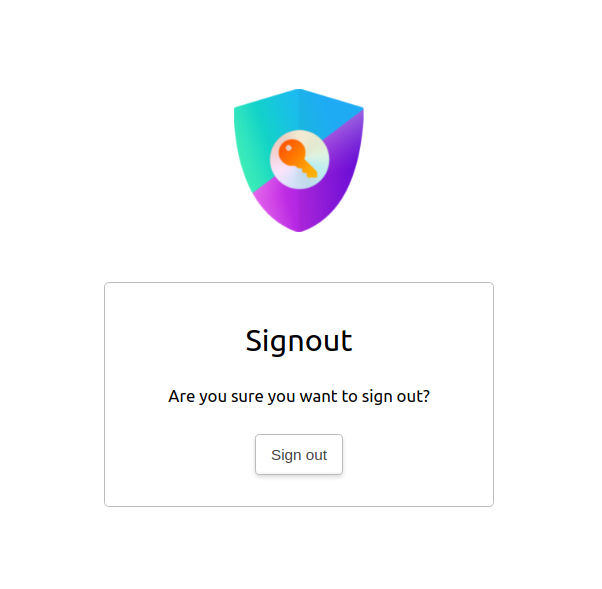
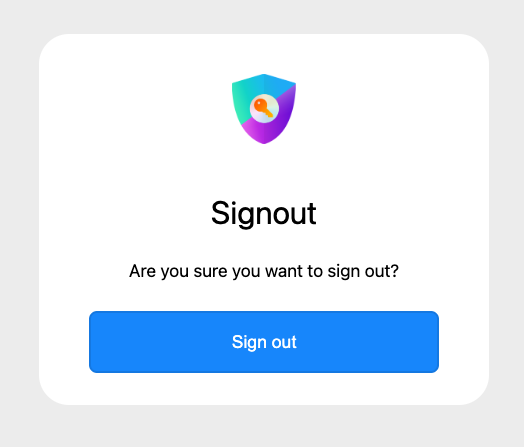
feat(core): Redesigned all default pages (#5825)
* feat(pages): Redesigned all default pages according to sketches discussed.

* chore(signin): Remove console.log

* fix(css): Makes cards scale down to 320px and have a fixed width on larger screens

* fix(styling): Adds margins on bottom and top of card.

* chore(docs): Change the documentation according to changes. Uploaded new images that reflect the new pages.

* fix(next-auth/core): Fixes correct styling of provider button across browsers.

* chore(docs): Add doc string to beta docs aswell

* feat: move changes to core

* revert change in next-auth

revert signin

Changed region(s): [[0.1527, 0.4944, 0.855, 0.8434], [0.3664, 0.1454, 0.6107, 0.4072], [0.3969, 0.4362, 0.6107, 0.5235]]

diff --git a/packages/core/src/lib/pages/styles.css b/packages/core/src/lib/pages/styles.css
@@ -8,7 +8,8 @@
 
 .__next-auth-theme-auto,
 .__next-auth-theme-light {
-  --color-background: #fff;
+  --color-background: #ececec;
+  --color-background-card: #fff;
   --color-text: #000;
   --color-primary: #444;
   --color-control-border: #bbb;
@@ -18,7 +19,8 @@
 }
 
 .__next-auth-theme-dark {
-  --color-background: #000;
+  --color-background: #161b22;
+  --color-background-card: #0d1117;
   --color-text: #fff;
   --color-primary: #ccc;
   --color-control-border: #555;
@@ -29,7 +31,8 @@
 
 @media (prefers-color-scheme: dark) {
   .__next-auth-theme-auto {
-    --color-background: #000;
+    --color-background: #161b22;
+    --color-background-card: #0d1117;
     --color-text: #fff;
     --color-primary: #ccc;
     --color-control-border: #555;
@@ -78,10 +81,9 @@ input[type] {
   width: 100%;
   padding: 0.5rem 1rem;
   border: var(--border-width) solid var(--color-control-border);
-  background: var(--color-background);
+  background: var(--color-background-card);
   font-size: 1rem;
   border-radius: var(--border-radius);
-  box-shadow: inset 0 0.1rem 0.2rem rgba(0, 0, 0, 0.2);
   color: var(--color-text);
 
   &:focus {
@@ -107,41 +109,39 @@ a.button {
   }
 }
 
+button span {
+  flex-grow: 1;
+}
+
 button,
 a.button {
   margin: 0 0 0.75rem 0;
   padding: 0.75rem 1rem;
   color: var(--provider-color, var(--color-primary));
-  background-color: var(--provider-bg, var(--color-background));
+  background-color: var(--provider-bg, var(--color-background-card));
   font-size: 1.1rem;
   min-height: 62px;
   border-color: rgba(0, 0, 0, 0.1);
   border-radius: var(--border-radius);
   transition: all 0.1s ease-in-out;
-  box-shadow: #000 0px 0px 0px 0px, #000 0px 0px 0px 0px,
-    rgba(0, 0, 0, 0.2) 0px 10px 15px -3px, rgba(0, 0, 0, 0.1) 0px 4px 6px -4px;
   font-weight: 500;
   position: relative;
   display: flex;
   align-items: center;
   justify-content: center;
 
-  &:has(img) {
-    justify-content: unset;
-    span {
-      flex-grow: 1;
-    }
+  @media (max-width: 450px) {
+    font-size: 0.9rem;
   }
+
   &:hover {
     cursor: pointer;
   }
   &:active {
-    box-shadow: 0 0.15rem 0.3rem rgba(0, 0, 0, 0.15),
-      inset 0 0.1rem 0.2rem var(--color-background),
-      inset 0 -0.1rem 0.1rem rgba(0, 0, 0, 0.1);
     cursor: pointer;
   }
   #provider-logo {
+    width: 25px;
     display: block;
   }
   #provider-logo-dark {
@@ -149,20 +149,23 @@ a.button {
   }
 }
 
+#submitButton {
+  color: var(--button-text-color, var(--color-info-text));
+  background-color: var(--brand-color, var(--color-info));
+  width: 100%;
+}
+
 @media (prefers-color-scheme: dark) {
   button,
   a.button {
     color: var(--provider-dark-color, var(--color-primary));
     background-color: var(--provider-dark-bg, var(--color-background));
-    border: 1px solid #0d0d0d;
-    box-shadow: #000 0px 0px 0px 0px, #ccc 0px 0px 0px 0px,
-      rgba(255, 255, 255, 0.01) 0px 5px 5px -3px,
-      rgba(255, 255, 255, 0.05) 0px 4px 6px -4px;
   }
   #provider-logo {
     display: none !important;
   }
   #provider-logo-dark {
+    width: 25px;
     display: block !important;
   }
 }
@@ -189,7 +192,6 @@ a.site {
 
   > div {
     text-align: center;
-    padding: 0.5rem;
   }
 }
 
@@ -217,16 +219,16 @@ a.site {
     display: block;
     border: 0;
     border-top: 1px solid var(--color-seperator);
-    margin: 1.5em auto 0 auto;
+    margin: 2rem auto 1rem auto;
     overflow: visible;
 
     &::before {
       content: "or";
-      background: var(--color-background);
+      background: var(--color-background-card);
       color: #888;
       padding: 0 0.4rem;
       position: relative;
-      top: -0.6rem;
+      top: -0.7rem;
     }
   }
 
@@ -234,7 +236,7 @@ a.site {
     background: #f5f5f5;
     font-weight: 500;
     border-radius: 0.3rem;
-    background: var(--color-info);
+    background: var(--color-error);
 
     p {
       text-align: left;
@@ -260,25 +262,26 @@ a.site {
     max-width: 300px;
   }
 }
-.signout {
-  .message {
-    margin-bottom: 1.5rem;
-  }
-}
 
 .logo {
   display: inline-block;
-  margin-top: 100px;
-  max-width: 300px;
-  max-height: 150px;
+  max-width: 150px;
+  margin-top: 20px;
+  margin-bottom: 25px;
+  max-height: 70px;
 }
 
 .card {
-  max-width: max-content;
-  border: 1px solid var(--color-control-border);
-  border-radius: 5px;
+  @media screen and (min-width: 450px) {
+    width: 350px;
+  }
+  @media screen and (max-width: 450px) {
+    width: 200px;
+  }
+  margin: 20px 0 20px 0;
+  background-color: var(--color-background-card);
+  border-radius: 30px;
   padding: 20px 50px;
-  margin: 50px auto;
 
   .header {
     color: var(--color-primary);
@@ -286,5 +289,5 @@ a.site {
 }
 
 .section-header {
-  color: var(--brand-color, var(--color-text));
+  color: var(--color-text);
 }

diff --git a/packages/core/src/lib/pages/signin.tsx b/packages/core/src/lib/pages/signin.tsx
@@ -47,6 +47,13 @@ export default function SigninPage(props: {
     )
   }
 
+  if (typeof document !== "undefined" && theme.buttonText) {
+    document.documentElement.style.setProperty(
+      "--button-text-color",
+      theme.buttonText
+    )
+  }
+
   const error =
     errorType &&
     (signinErrors[errorType.toLowerCase() as Lowercase<SignInPageErrorParam>] ??
@@ -64,7 +71,17 @@ export default function SigninPage(props: {
           }}
         />
       )}
-      {theme.logo && <img src={theme.logo} alt="Logo" className="logo" />}
+      {theme.buttonText && (
+        <style
+          dangerouslySetInnerHTML={{
+            __html: `
+        :root {
+          --button-text-color: ${theme.buttonText}
+        }
+      `,
+          }}
+        />
+      )}
       <div className="card">
         {error && (
           <div className="error">
@@ -165,7 +182,9 @@ export default function SigninPage(props: {
                     </div>
                   )
                 })}
-                <button type="submit">Sign in with {provider.name}</button>
+                <button id="submitButton" type="submit">
+                  Sign in with {provider.name}
+                </button>
               </form>
             )}
             {(provider.type === "email" || provider.type === "credentials") &&

diff --git a/packages/core/src/lib/pages/signout.tsx b/packages/core/src/lib/pages/signout.tsx
@@ -22,13 +22,26 @@ export default function SignoutPage(props: SignoutProps) {
           }}
         />
       )}
-      {theme.logo && <img src={theme.logo} alt="Logo" className="logo" />}
+      {theme.buttonText && (
+        <style
+          dangerouslySetInnerHTML={{
+            __html: `
+        :root {
+          --button-text-color: ${theme.buttonText}
+        }
+      `,
+          }}
+        />
+      )}
       <div className="card">
+        {theme.logo && <img src={theme.logo} alt="Logo" className="logo" />}
         <h1>Signout</h1>
         <p>Are you sure you want to sign out?</p>
         <form action={`${url}/signout`} method="POST">
           <input type="hidden" name="csrfToken" value={csrfToken} />
-          <button type="submit">Sign out</button>
+          <button id="submitButton" type="submit">
+            Sign out
+          </button>
         </form>
       </div>
     </div>

diff --git a/packages/core/src/lib/pages/verify-request.tsx b/packages/core/src/lib/pages/verify-request.tsx
@@ -21,8 +21,8 @@ export default function VerifyRequestPage(props: VerifyRequestPageProps) {
           }}
         />
       )}
-      {theme.logo && <img src={theme.logo} alt="Logo" className="logo" />}
       <div className="card">
+        {theme.logo && <img src={theme.logo} alt="Logo" className="logo" />}
         <h1>Check your email</h1>
         <p>A sign in link has been sent to your email address.</p>
         <p>

diff --git a/packages/core/src/lib/pages/error.tsx b/packages/core/src/lib/pages/error.tsx
@@ -97,8 +97,8 @@ export default function ErrorPage(props: ErrorProps) {
             }}
           />
         )}
-        {theme?.logo && <img src={theme.logo} alt="Logo" className="logo" />}
         <div className="card">
+          {theme?.logo && <img src={theme?.logo} alt="Logo" className="logo" />}
           <h1>{heading}</h1>
           <div className="message">{message}</div>
           {signin}

diff --git a/docs/docs/guides/03-basics/pages.md b/docs/docs/guides/03-basics/pages.md
@@ -60,7 +60,7 @@ Example: `/auth/signin?error=Default`
 
 By default, the built-in pages will follow the system theme, utilizing the [`prefer-color-scheme`](https://developer.mozilla.org/en-US/docs/Web/CSS/@media/prefers-color-scheme) Media Query. You can override this to always use a dark or light theme, through the [`theme.colorScheme` option](/reference/configuration/auth-config#theme).
 
-In addition, you can define a `theme.brandColor` to define a custom accent color for these built-in pages. You can also define a URL to a logo in `theme.logo` which will be rendered above the primary card in these pages.
+In addition, you can define the background color and text color of the button with the `theme.brandColor` and `theme.buttonText` options. You can also define a URL to a logo in `theme.logo` which will be rendered at the top of the card.
 
 #### Sign In
 
